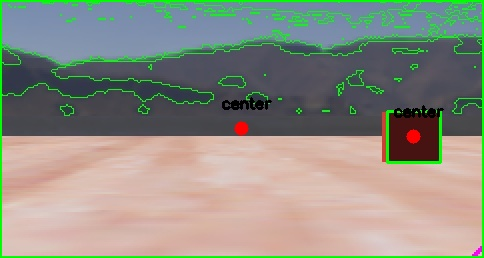
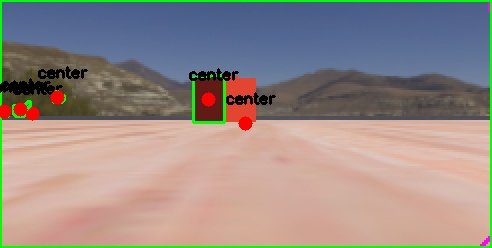
Add files via upload

diff --git a/youbot_controller/img_detection.py b/youbot_controller/img_detection.py
@@ -16,9 +16,7 @@ def getColorName(R,G,B):
             color_name = csv.loc[i,"color_name"]
     return color_name
 
-def object_info(img, size_image):
-    # arr_3D = np.array([[[0, 1, 1], [1, 0, 1], [1, 1, 0]]]) # create numpy 3D array which contain integer values
-
+def object_info(img, img_width, img_height):
     # img = np.array(img[])
     # img = cv2.imread('./test1.jpg')
     object_data = [] #center point, area
@@ -28,15 +26,60 @@ def object_info(img, size_image):
     print("Number of contours = {}".format(str(len(contours))))
     for i in contours:
         M = cv2.moments(i)
+        area = 0
         if M['m00'] != 0:
             cx = int(M['m10']/M['m00'])
             cy = int(M['m01']/M['m00'])
-            cv2.drawContours(img, [i], -1, (0, 255, 0), 2)
-            cv2.circle(img, (cx, cy), 7, (0, 0, 255), -1)
-            cv2.putText(img, "center", (cx - 20, cy - 20),
-                       cv2.FONT_HERSHEY_SIMPLEX, 0.5, (0, 0, 0), 2)
-            area = cv2.contourArea(i)
-        if (area < size_image):
-            object_data.append([(cx,cy), area])
+            
+            if (area < (img_height * img_width) / 2 ):
+
+                # cv2.drawContours(img, [i], -1, (0, 255, 0), 2)
+                # cv2.circle(img, (cx, cy), 7, (0, 0, 255), -1)
+                # cv2.putText(img, "center", (cx - 20, cy - 20),
+                #        cv2.FONT_HERSHEY_SIMPLEX, 0.5, (0, 0, 0), 2)
+                object_data.append([(cy,cx), area])
+    # cv2.imwrite("./test1.jpg", img)
+
+    # cv2.imshow('Image', img)
+    # cv2.waitKey(0)
+    # cv2.destroyAllWindows()
     return object_data
+
+def zombie_berry_info(object_data, image, img_width, img_height):
+    R = 0
+    G = 0
+    B = 0
+    c = 0
+    view = []
+    for i in range(len(object_data)):
+        x,y = object_data[i][0]
+        for cx in range(x - 5, x + 5):
+            for cy in range(y - 5, y + 5):
+                if (0 < cx < img_width and 0 < cy < img_height):
+                    R  += image[cx][cy][0]
+                    G  += image[cx][cy][1]
+                    B  += image[cx][cy][2]
+                    c += 1
+        color = getColorName(R/c,G/c,B/c)
+        color = color.lower()
+        if (color.find("red") != -1 or color.find("rose") != -1 or color.find("wine") != -1):
+            view.append(["red berry",object_data[i][0],color])
+        elif (color.find("yellow") != -1):
+            view.append(["yellow berry",object_data[i][0],color])
+        elif (color.find("orange") != -1):
+            view.append(["orange berry",object_data[i][0],color])
+        elif (color.find("pink")!= -1):
+            view.append(["pink berry",object_data[i][0],color])
+        elif (color.find("green") != -1):
+            view.append(["green zombie",object_data[i][0],color])
+        elif (color.find("blue")!= -1):
+            view.append(["blue zombie",object_data[i][0],color])
+        elif (color.find("aqua") != -1):
+            view.append(["aqua zombie",object_data[i][0],color])
+        elif (color.find("purple") != -1):
+            view.append(["purple zombie",object_data[i][0],color])
+    return view
+
+        
+
 

diff --git a/youbot_controller/youbot_controller.py b/youbot_controller/youbot_controller.py
@@ -3,7 +3,6 @@
 from controller import Robot, Motor, Camera, Accelerometer, GPS, Gyro, LightSensor, Receiver, RangeFinder, Lidar
 from controller import Supervisor
 import numpy as np
-from PIL import Image
 
 
 
@@ -145,10 +144,8 @@ def main():
         print(camera2.getHeight())
 
         image = camera2.getImageArray()
-        red = []
-        green = []
-        blue = []
-        gray = []
+        view_info = []
+        object_data = []
         if image:
             # for x in range(0,camera2.getWidth()):
             #     for y in range(0,camera2.getHeight()):
@@ -157,18 +154,9 @@ def main():
             #         blue.append(image[x][y][2])
             #         gray.append((image[x][y][0] + image[x][y][1] + image[x][y][2]) / 3)
             data = np.array(image, dtype = np.uint8) 
-            object_data = object_info(data, camera2.getHeight() * camera2.getWidth())
-            print("object date\n",object_data)
-            for i in range(len(object_data)):
-                x,y = object_data[i][0]
-                print(x,y)
-                R  = image[x][y][0]
-                G = image[x][y][1]
-                B  = image[x][y][2]
-                color = getColorName(R,G,B)
-                print(R,G,B)
-                print(color)
-                print("area",object_data[i][1])
+            object_data = object_info(data, camera2.getHeight(), camera2.getWidth())
+            view_info = zombie_berry_info(object_data, image, camera2.getWidth(), camera2.getHeight(), )
+            print("view info", view_info)
 
 
         

diff --git a/youbot_controller/test.py b/youbot_controller/test.py
@@ -1,0 +1,27 @@
+from img_detection import *
+
+image = cv2.imread('./test2.jpg')
+red = []
+green = []
+blue = []
+gray = []
+# for x in range(0,camera2.getWidth()):
+#     for y in range(0,camera2.getHeight()):
+#         red.append(image[x][y][0])
+#         green.append(image[x][y][1])
+#         blue.append(image[x][y][2])
+#         gray.append((image[x][y][0] + image[x][y][1] + image[x][y][2]) / 3)
+data = np.array(image, dtype = np.uint8) 
+dimensions = image.shape
+object_data = object_info(image, image.shape[0], image.shape[1])
+print("object date\n",object_data)
+for i in range(len(object_data)):
+    x,y = object_data[i][0]
+    print(x,y, image.shape[0], image.shape[1])
+    
+    B  = image[x][y][0]
+    G = image[x][y][1]
+    R  = image[x][y][2]
+    color = getColorName(R,G,B)
+    print(R,G,B,color)
+    print("area",object_data[i][1])
